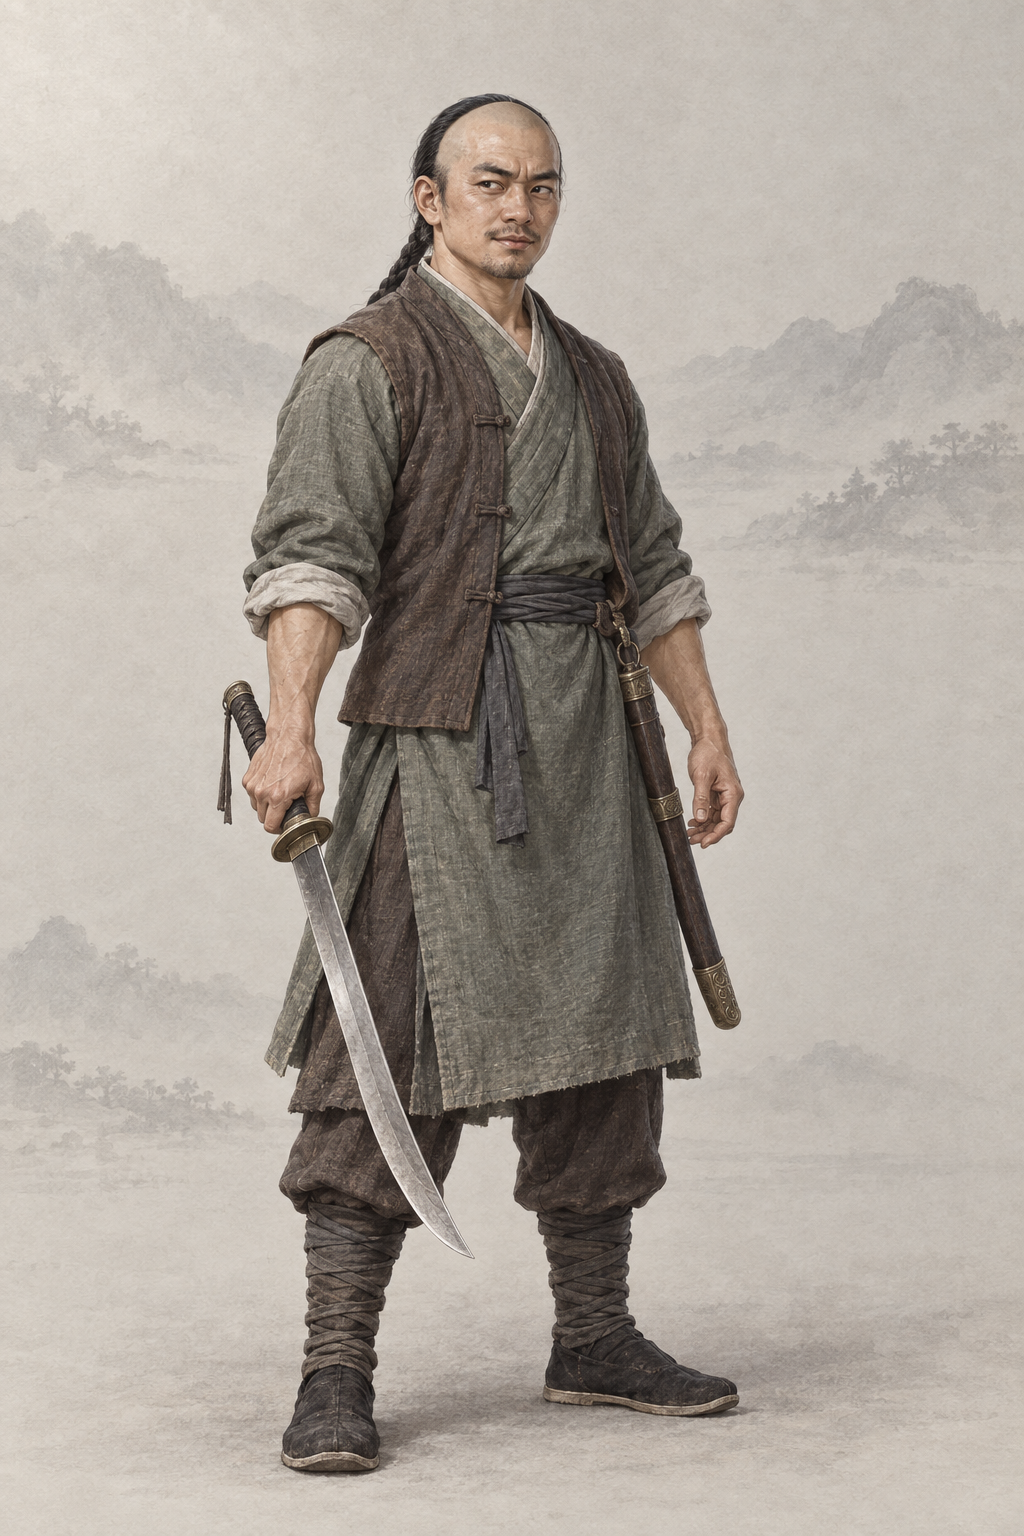
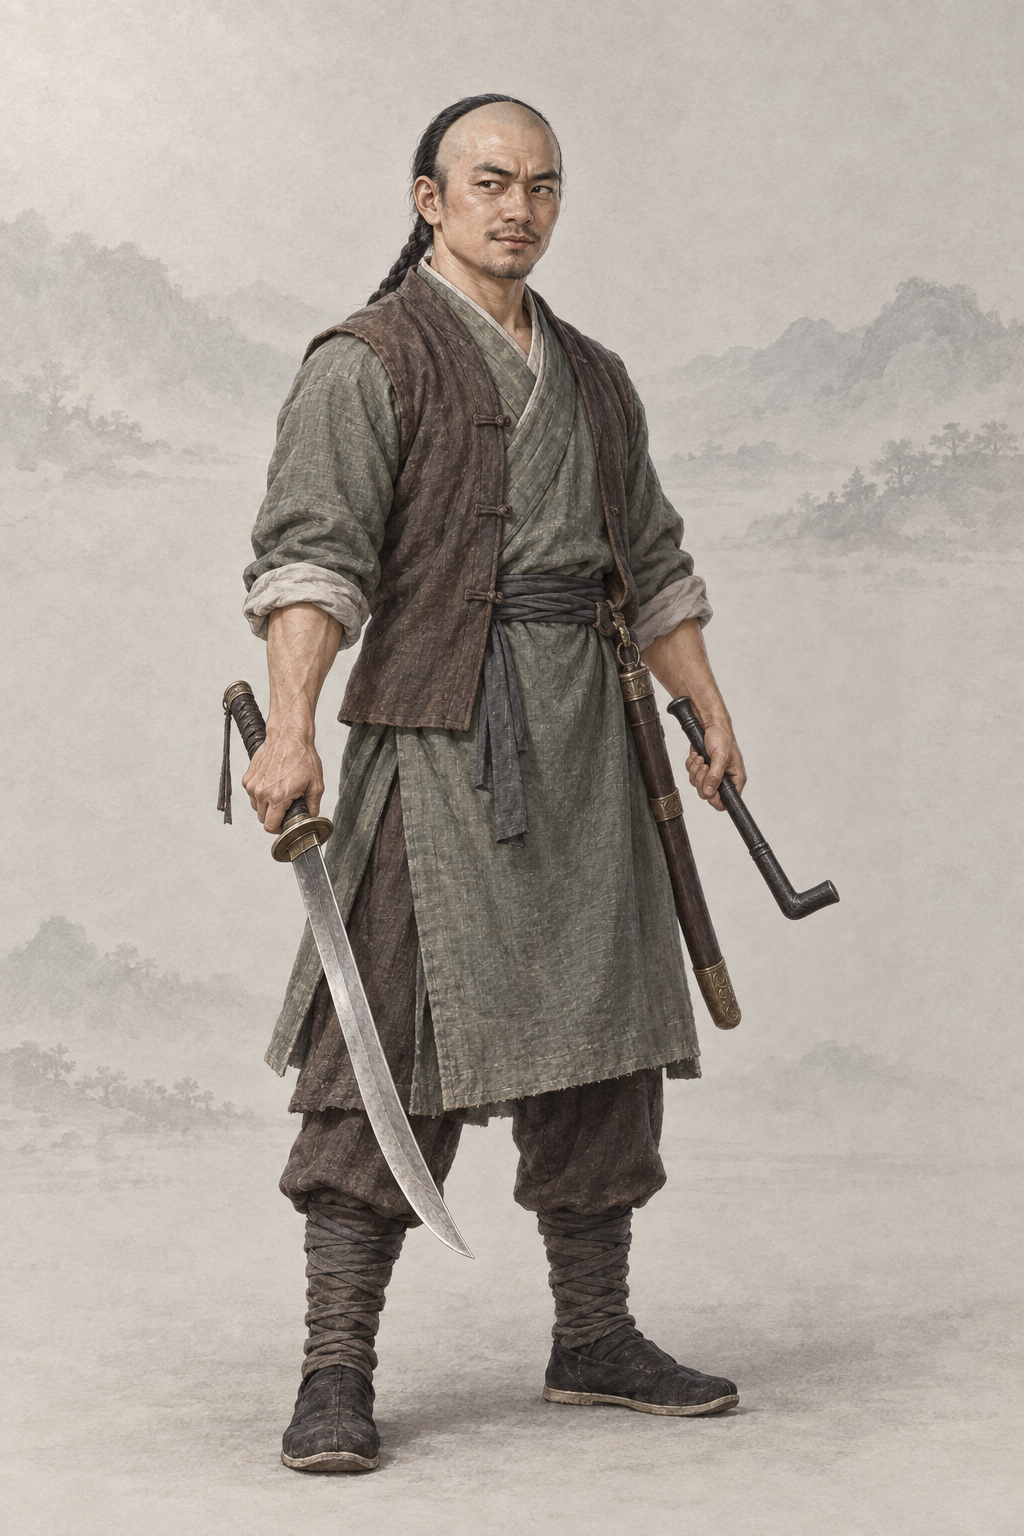
assets: AR-82 原著核对返修 袁冠南、萧半和、徐天宏
修正原著明确的服饰、器物或剧情状态；编辑范围外像素保持，保留既定面容；同步原著摘句及当前返修要求。

Executed-By: Codex gpt-6.1-sol（AR-82）

Changed region(s): [[0.625, 0.3438, 0.75, 0.5625], [0.75, 0.5625, 0.8125, 0.5938]]

diff --git a/assets/default/prompts/characters/ch12-shujian/npc_xutianhong.md b/assets/default/prompts/characters/ch12-shujian/npc_xutianhong.md
@@ -125,3 +125,15 @@ Use case: stylized-concept。Asset type: 《金庸群侠传·天书录》default
 - 眼神与偏重心体现机智，不用羽扇替换个人兵器。
 - 青绿短袍和紧凑体型与修长青年们拉开。
 - 周绮不入画，单人立绘保留独立角色边界。
+
+
+## 原著依据
+
+- AR-82 返修依据：《书剑恩仇录》第三回“避祸英雄悲失路，寻仇好汉误交兵”：“左手铁拐”“右手刀”。；来源：https://github.com/OliverCWY/JY/blob/master/Markdown/%E4%B8%89%E8%81%94%E7%89%88/%E4%B9%A6%E5%89%91%E6%81%A9%E4%BB%87%E5%BD%95/%E7%AC%AC03%E7%AB%A0%E3%80%80%E9%81%BF%E7%A5%B8%E8%8B%B1%E9%9B%84%E6%82%B2%E5%A4%B1%E8%B7%AF%EF%BC%8C%E5%AF%BB%E4%BB%87%E5%A5%BD%E6%B1%89%E8%AF%AF%E4%BA%A4%E5%85%B5.md；执行：保留右手普通单刀，在左手补铁拐，双兵器完整入画；铁拐是武器，不把徐画成腿残或借拐行走。
+
+
+## AR-82 当前返修约束
+
+徐天宏本人左手（画面右侧）补一把短柄黑铁铁拐作为武器：左手握住铁拐中段，铁拐有弯角/横档可辨，是铁制短兵器，不能画成拄地的行走拐杖。左手仅为握武器微调手指，保留手臂位置。右手原单刀、刀鞘、双腿完整健全和稳立姿态、面容全部不变。
+
+以本节及原著依据为当前要求，历史提示词与本节冲突时按本节执行；保留作者选定脸、原画质感与对应剧情阶段。

diff --git a/assets/default/prompts/characters/ch11-yuanyang/npc_xiaobanhe.md b/assets/default/prompts/characters/ch11-yuanyang/npc_xiaobanhe.md
@@ -60,3 +60,15 @@ status: ready
 - 采用作者授权宽松自查；偏差如实记录，candidate不代表approved。
 - 源PNG通常为1024×1536 RGB；其他原生2:3尺寸如实登记，原字节保存，不裁切、重编码、放大或去除溯源。
 - 完整请求、实际参考哈希及旧版本备份见 `.agents/coord/portrait-generation/hero-20261001/por_npc_xiaobanhe__ch11_elder_birthday_base.prepared.json`。
+
+
+## 原著依据
+
+- AR-82 返修依据：《鸳鸯刀》转载第七节：“萧半和长袍马褂”。；来源：https://www.kanunu8.com/book6/yuanyangdao/50469.html；执行：五十寿辰穿长袍与有袖马褂，外层马褂袖子清楚可见；颜色原著无描写，可保留当前褐色。
+
+
+## AR-82 当前返修约束
+
+萧半和五十寿辰穿长袍与有袖马褂：只将当前红褐无袖马甲换成同色有袖马褂，外层左右都有约到肘下的宽袖，袖缘清楚覆盖长袍上臂；内层棕长袍与浅色腕部袖口继续可见，双手姿态不动。服色原著无指定，保留现在红褐色和旧化布纹。脸和帽子不动。
+
+以本节及原著依据为当前要求，历史提示词与本节冲突时按本节执行；保留作者选定脸、原画质感与对应剧情阶段。

diff --git a/assets/default/prompts/characters/ch11-yuanyang/npc_yuanguannan.md b/assets/default/prompts/characters/ch11-yuanyang/npc_yuanguannan.md
@@ -148,3 +148,15 @@ generation_attempts: 2
 
 - 参考分工见实际提示词；配色、姿势、取景及成年化均为（原创扩展）。
 - 本轮结果已逐图目检并入库为 candidate；实际作业与参考哈希见 manifest。
+
+
+## 原著依据
+
+- AR-82 返修依据：《鸳鸯刀》转载第八节：“细金链上的翡翠狮子”。；来源：https://www.kanunu8.com/book6/yuanyangdao/50470.html；执行：将翡翠小狮子以细金链挂在颈下，胸前可辨；保留小狮子的大小，去掉腰侧布绳挂法。
+
+
+## AR-82 当前返修约束
+
+袁冠南原来的翡翠小狮子大小不变，移到胸前颈下，穿一条清楚细金链挂在脖子上，金链经过领口自然垂下；金属链是金黄色细链，不能变成布绳。去掉原腰侧垂挂的小狮子和深色布绳，原腰带不动。原双手、笔墨盒、衣领、脸和长袍全部保持。
+
+以本节及原著依据为当前要求，历史提示词与本节冲突时按本节执行；保留作者选定脸、原画质感与对应剧情阶段。
